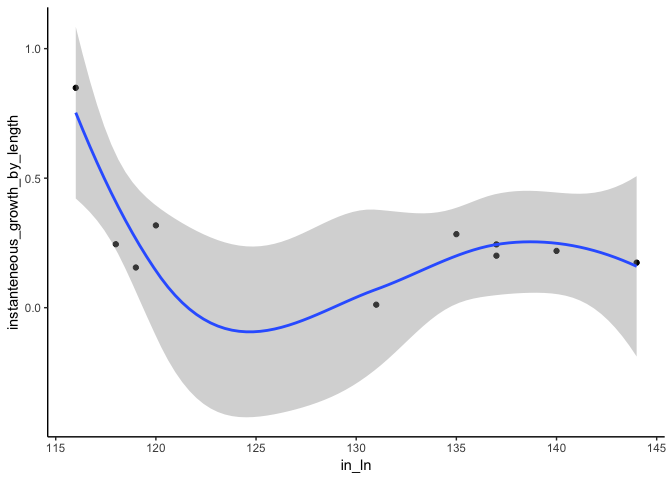
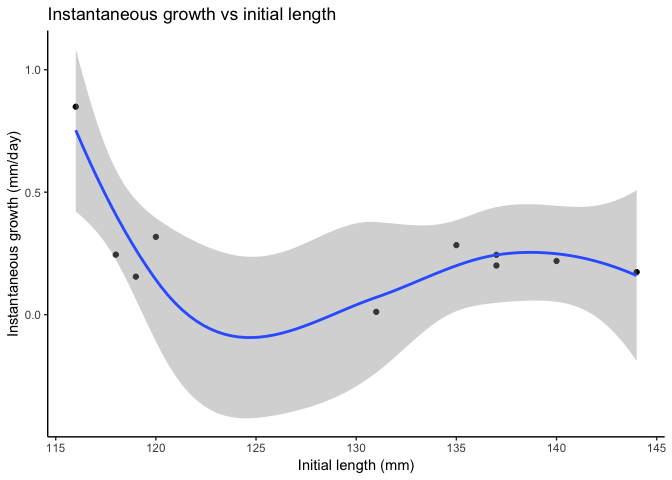
have to render in html for stringr functions to work

diff --git a/HW_06_KZ.html b/HW_06_KZ.html
@@ -213,55 +213,55 @@ RANDO_ANIMALS &lt;- c(&quot;orca&quot;, &quot;panther&quot;, &quot;cougar&quot;,
 <p>BACK TO WORK. Say we are interested in seeing which characters have letters <strong>ae</strong> in them. Let’s use the <strong>str_view</strong> function.</p>
 <pre class="r"><code>#looking for characters with letter *a*
 str_view(RANDO_ANIMALS, &quot;a&quot;)</code></pre>
-<div id="htmlwidget-c9ea9ca7982bcde2ba26" style="width:960px;height:100%;" class="str_view html-widget"></div>
-<script type="application/json" data-for="htmlwidget-c9ea9ca7982bcde2ba26">{"x":{"html":"<ul>\n  <li>orc<span class='match'>a<\/span><\/li>\n  <li>p<span class='match'>a<\/span>nther<\/li>\n  <li>coug<span class='match'>a<\/span>r<\/li>\n  <li>cuddlefish<\/li>\n  <li><span class='match'>a<\/span>nglerfish<\/li>\n  <li>husky<\/li>\n  <li>steelhe<span class='match'>a<\/span>d<\/li>\n<\/ul>"},"evals":[],"jsHooks":[]}</script>
+<div id="htmlwidget-8fb0a4751ad9a6f78b5c" style="width:960px;height:100%;" class="str_view html-widget"></div>
+<script type="application/json" data-for="htmlwidget-8fb0a4751ad9a6f78b5c">{"x":{"html":"<ul>\n  <li>orc<span class='match'>a<\/span><\/li>\n  <li>p<span class='match'>a<\/span>nther<\/li>\n  <li>coug<span class='match'>a<\/span>r<\/li>\n  <li>cuddlefish<\/li>\n  <li><span class='match'>a<\/span>nglerfish<\/li>\n  <li>husky<\/li>\n  <li>steelhe<span class='match'>a<\/span>d<\/li>\n<\/ul>"},"evals":[],"jsHooks":[]}</script>
 <pre class="r"><code>#looking for characters with *an*
 str_view(RANDO_ANIMALS, &quot;an&quot;)</code></pre>
-<div id="htmlwidget-d6681110bde5a7505109" style="width:960px;height:100%;" class="str_view html-widget"></div>
-<script type="application/json" data-for="htmlwidget-d6681110bde5a7505109">{"x":{"html":"<ul>\n  <li>orca<\/li>\n  <li>p<span class='match'>an<\/span>ther<\/li>\n  <li>cougar<\/li>\n  <li>cuddlefish<\/li>\n  <li><span class='match'>an<\/span>glerfish<\/li>\n  <li>husky<\/li>\n  <li>steelhead<\/li>\n<\/ul>"},"evals":[],"jsHooks":[]}</script>
+<div id="htmlwidget-2ba647689ce7d065afe1" style="width:960px;height:100%;" class="str_view html-widget"></div>
+<script type="application/json" data-for="htmlwidget-2ba647689ce7d065afe1">{"x":{"html":"<ul>\n  <li>orca<\/li>\n  <li>p<span class='match'>an<\/span>ther<\/li>\n  <li>cougar<\/li>\n  <li>cuddlefish<\/li>\n  <li><span class='match'>an<\/span>glerfish<\/li>\n  <li>husky<\/li>\n  <li>steelhead<\/li>\n<\/ul>"},"evals":[],"jsHooks":[]}</script>
 <pre class="r"><code>#looking for characters with *o* and one letter on either side
 str_view(RANDO_ANIMALS, &quot;.o.&quot;)</code></pre>
-<div id="htmlwidget-29c15561490172523133" style="width:960px;height:100%;" class="str_view html-widget"></div>
-<script type="application/json" data-for="htmlwidget-29c15561490172523133">{"x":{"html":"<ul>\n  <li>orca<\/li>\n  <li>panther<\/li>\n  <li><span class='match'>cou<\/span>gar<\/li>\n  <li>cuddlefish<\/li>\n  <li>anglerfish<\/li>\n  <li>husky<\/li>\n  <li>steelhead<\/li>\n<\/ul>"},"evals":[],"jsHooks":[]}</script>
+<div id="htmlwidget-86c2edf467e04c3626bd" style="width:960px;height:100%;" class="str_view html-widget"></div>
+<script type="application/json" data-for="htmlwidget-86c2edf467e04c3626bd">{"x":{"html":"<ul>\n  <li>orca<\/li>\n  <li>panther<\/li>\n  <li><span class='match'>cou<\/span>gar<\/li>\n  <li>cuddlefish<\/li>\n  <li>anglerfish<\/li>\n  <li>husky<\/li>\n  <li>steelhead<\/li>\n<\/ul>"},"evals":[],"jsHooks":[]}</script>
 <pre class="r"><code>#looking for an *a* at the beginning of a string
 str_view(RANDO_ANIMALS, &quot;^a&quot;)</code></pre>
-<div id="htmlwidget-754b5304b3bdf0a2e732" style="width:960px;height:100%;" class="str_view html-widget"></div>
-<script type="application/json" data-for="htmlwidget-754b5304b3bdf0a2e732">{"x":{"html":"<ul>\n  <li>orca<\/li>\n  <li>panther<\/li>\n  <li>cougar<\/li>\n  <li>cuddlefish<\/li>\n  <li><span class='match'>a<\/span>nglerfish<\/li>\n  <li>husky<\/li>\n  <li>steelhead<\/li>\n<\/ul>"},"evals":[],"jsHooks":[]}</script>
+<div id="htmlwidget-6427d2b55d15388d616c" style="width:960px;height:100%;" class="str_view html-widget"></div>
+<script type="application/json" data-for="htmlwidget-6427d2b55d15388d616c">{"x":{"html":"<ul>\n  <li>orca<\/li>\n  <li>panther<\/li>\n  <li>cougar<\/li>\n  <li>cuddlefish<\/li>\n  <li><span class='match'>a<\/span>nglerfish<\/li>\n  <li>husky<\/li>\n  <li>steelhead<\/li>\n<\/ul>"},"evals":[],"jsHooks":[]}</script>
 <pre class="r"><code>#looking for an *a* at the end of a string
 str_view(RANDO_ANIMALS, &quot;a$&quot;)</code></pre>
-<div id="htmlwidget-f0ce57c5d07af04e16a3" style="width:960px;height:100%;" class="str_view html-widget"></div>
-<script type="application/json" data-for="htmlwidget-f0ce57c5d07af04e16a3">{"x":{"html":"<ul>\n  <li>orc<span class='match'>a<\/span><\/li>\n  <li>panther<\/li>\n  <li>cougar<\/li>\n  <li>cuddlefish<\/li>\n  <li>anglerfish<\/li>\n  <li>husky<\/li>\n  <li>steelhead<\/li>\n<\/ul>"},"evals":[],"jsHooks":[]}</script>
+<div id="htmlwidget-68942a52f1843bac92fe" style="width:960px;height:100%;" class="str_view html-widget"></div>
+<script type="application/json" data-for="htmlwidget-68942a52f1843bac92fe">{"x":{"html":"<ul>\n  <li>orc<span class='match'>a<\/span><\/li>\n  <li>panther<\/li>\n  <li>cougar<\/li>\n  <li>cuddlefish<\/li>\n  <li>anglerfish<\/li>\n  <li>husky<\/li>\n  <li>steelhead<\/li>\n<\/ul>"},"evals":[],"jsHooks":[]}</script>
 <pre class="r"><code>#how many words start with a vowel?
 str_view(RANDO_ANIMALS, &quot;^[aeiou]&quot;)</code></pre>
-<div id="htmlwidget-c4999d520974f7b385bb" style="width:960px;height:100%;" class="str_view html-widget"></div>
-<script type="application/json" data-for="htmlwidget-c4999d520974f7b385bb">{"x":{"html":"<ul>\n  <li><span class='match'>o<\/span>rca<\/li>\n  <li>panther<\/li>\n  <li>cougar<\/li>\n  <li>cuddlefish<\/li>\n  <li><span class='match'>a<\/span>nglerfish<\/li>\n  <li>husky<\/li>\n  <li>steelhead<\/li>\n<\/ul>"},"evals":[],"jsHooks":[]}</script>
+<div id="htmlwidget-0183300368c0a569523e" style="width:960px;height:100%;" class="str_view html-widget"></div>
+<script type="application/json" data-for="htmlwidget-0183300368c0a569523e">{"x":{"html":"<ul>\n  <li><span class='match'>o<\/span>rca<\/li>\n  <li>panther<\/li>\n  <li>cougar<\/li>\n  <li>cuddlefish<\/li>\n  <li><span class='match'>a<\/span>nglerfish<\/li>\n  <li>husky<\/li>\n  <li>steelhead<\/li>\n<\/ul>"},"evals":[],"jsHooks":[]}</script>
 <pre class="r"><code>#how many words end with only consonants?
 str_view(RANDO_ANIMALS, &quot;[^aeiou]$&quot;)</code></pre>
-<div id="htmlwidget-e6eabce1baa34cc06ad5" style="width:960px;height:100%;" class="str_view html-widget"></div>
-<script type="application/json" data-for="htmlwidget-e6eabce1baa34cc06ad5">{"x":{"html":"<ul>\n  <li>orca<\/li>\n  <li>panthe<span class='match'>r<\/span><\/li>\n  <li>couga<span class='match'>r<\/span><\/li>\n  <li>cuddlefis<span class='match'>h<\/span><\/li>\n  <li>anglerfis<span class='match'>h<\/span><\/li>\n  <li>husk<span class='match'>y<\/span><\/li>\n  <li>steelhea<span class='match'>d<\/span><\/li>\n<\/ul>"},"evals":[],"jsHooks":[]}</script>
+<div id="htmlwidget-25eb23d56f8f0a136824" style="width:960px;height:100%;" class="str_view html-widget"></div>
+<script type="application/json" data-for="htmlwidget-25eb23d56f8f0a136824">{"x":{"html":"<ul>\n  <li>orca<\/li>\n  <li>panthe<span class='match'>r<\/span><\/li>\n  <li>couga<span class='match'>r<\/span><\/li>\n  <li>cuddlefis<span class='match'>h<\/span><\/li>\n  <li>anglerfis<span class='match'>h<\/span><\/li>\n  <li>husk<span class='match'>y<\/span><\/li>\n  <li>steelhea<span class='match'>d<\/span><\/li>\n<\/ul>"},"evals":[],"jsHooks":[]}</script>
 <pre class="r"><code>#how many words end with *ar* or *er*?
 str_view(RANDO_ANIMALS, &quot;(ar|er)$&quot;)</code></pre>
-<p><div id="htmlwidget-ebd4790a455b2ee2fcd6" style="width:960px;height:100%;" class="str_view html-widget"></div>
-<script type="application/json" data-for="htmlwidget-ebd4790a455b2ee2fcd6">{"x":{"html":"<ul>\n  <li>orca<\/li>\n  <li>panth<span class='match'>er<\/span><\/li>\n  <li>coug<span class='match'>ar<\/span><\/li>\n  <li>cuddlefish<\/li>\n  <li>anglerfish<\/li>\n  <li>husky<\/li>\n  <li>steelhead<\/li>\n<\/ul>"},"evals":[],"jsHooks":[]}</script> What if we want to look for somethig that isn’t a letter?</p>
+<p><div id="htmlwidget-59642390ebbdf6bf556a" style="width:960px;height:100%;" class="str_view html-widget"></div>
+<script type="application/json" data-for="htmlwidget-59642390ebbdf6bf556a">{"x":{"html":"<ul>\n  <li>orca<\/li>\n  <li>panth<span class='match'>er<\/span><\/li>\n  <li>coug<span class='match'>ar<\/span><\/li>\n  <li>cuddlefish<\/li>\n  <li>anglerfish<\/li>\n  <li>husky<\/li>\n  <li>steelhead<\/li>\n<\/ul>"},"evals":[],"jsHooks":[]}</script> What if we want to look for somethig that isn’t a letter?</p>
 <pre class="r"><code>#creating my string
 Alternative_String &lt;- c(&quot;xyz&quot;, &quot;x.y&quot;, &quot;x%y&quot;, &quot;y z&quot;, &quot;z[#]x&quot;)
 
 #viewing the character with any letter, a period, then a y
 str_view(Alternative_String, &quot;.[.]y&quot;)</code></pre>
-<div id="htmlwidget-65d62280e904170e724d" style="width:960px;height:100%;" class="str_view html-widget"></div>
-<script type="application/json" data-for="htmlwidget-65d62280e904170e724d">{"x":{"html":"<ul>\n  <li>xyz<\/li>\n  <li><span class='match'>x.y<\/span><\/li>\n  <li>x%y<\/li>\n  <li>y z<\/li>\n  <li>z[#]x<\/li>\n<\/ul>"},"evals":[],"jsHooks":[]}</script>
+<div id="htmlwidget-b0c1f08769a1f5d87db8" style="width:960px;height:100%;" class="str_view html-widget"></div>
+<script type="application/json" data-for="htmlwidget-b0c1f08769a1f5d87db8">{"x":{"html":"<ul>\n  <li>xyz<\/li>\n  <li><span class='match'>x.y<\/span><\/li>\n  <li>x%y<\/li>\n  <li>y z<\/li>\n  <li>z[#]x<\/li>\n<\/ul>"},"evals":[],"jsHooks":[]}</script>
 <pre class="r"><code>#viewing the character with an x, %, then any letter 
 str_view(Alternative_String, &quot;x[%].&quot;)</code></pre>
-<div id="htmlwidget-90c53bd91c5f37ba4a57" style="width:960px;height:100%;" class="str_view html-widget"></div>
-<script type="application/json" data-for="htmlwidget-90c53bd91c5f37ba4a57">{"x":{"html":"<ul>\n  <li>xyz<\/li>\n  <li>x.y<\/li>\n  <li><span class='match'>x%y<\/span><\/li>\n  <li>y z<\/li>\n  <li>z[#]x<\/li>\n<\/ul>"},"evals":[],"jsHooks":[]}</script>
+<div id="htmlwidget-dfa4616eadf7f584041a" style="width:960px;height:100%;" class="str_view html-widget"></div>
+<script type="application/json" data-for="htmlwidget-dfa4616eadf7f584041a">{"x":{"html":"<ul>\n  <li>xyz<\/li>\n  <li>x.y<\/li>\n  <li><span class='match'>x%y<\/span><\/li>\n  <li>y z<\/li>\n  <li>z[#]x<\/li>\n<\/ul>"},"evals":[],"jsHooks":[]}</script>
 <pre class="r"><code>#viewing the character with any letter, #, and any letter
 str_view(Alternative_String, &quot;.[#].&quot;)</code></pre>
-<div id="htmlwidget-19ca484e34f9135b8d7d" style="width:960px;height:100%;" class="str_view html-widget"></div>
-<script type="application/json" data-for="htmlwidget-19ca484e34f9135b8d7d">{"x":{"html":"<ul>\n  <li>xyz<\/li>\n  <li>x.y<\/li>\n  <li>x%y<\/li>\n  <li>y z<\/li>\n  <li>z<span class='match'>[#]<\/span>x<\/li>\n<\/ul>"},"evals":[],"jsHooks":[]}</script>
+<div id="htmlwidget-cf3a43eec24c768f6bda" style="width:960px;height:100%;" class="str_view html-widget"></div>
+<script type="application/json" data-for="htmlwidget-cf3a43eec24c768f6bda">{"x":{"html":"<ul>\n  <li>xyz<\/li>\n  <li>x.y<\/li>\n  <li>x%y<\/li>\n  <li>y z<\/li>\n  <li>z<span class='match'>[#]<\/span>x<\/li>\n<\/ul>"},"evals":[],"jsHooks":[]}</script>
 <pre class="r"><code>#viewing the character with a space between any two letters
 str_view(Alternative_String, &quot;.[ ].&quot;)</code></pre>
-<div id="htmlwidget-2afdfda0124315918d85" style="width:960px;height:100%;" class="str_view html-widget"></div>
-<script type="application/json" data-for="htmlwidget-2afdfda0124315918d85">{"x":{"html":"<ul>\n  <li>xyz<\/li>\n  <li>x.y<\/li>\n  <li>x%y<\/li>\n  <li><span class='match'>y z<\/span><\/li>\n  <li>z[#]x<\/li>\n<\/ul>"},"evals":[],"jsHooks":[]}</script>
+<div id="htmlwidget-7599c0443c717b2e48aa" style="width:960px;height:100%;" class="str_view html-widget"></div>
+<script type="application/json" data-for="htmlwidget-7599c0443c717b2e48aa">{"x":{"html":"<ul>\n  <li>xyz<\/li>\n  <li>x.y<\/li>\n  <li>x%y<\/li>\n  <li><span class='match'>y z<\/span><\/li>\n  <li>z[#]x<\/li>\n<\/ul>"},"evals":[],"jsHooks":[]}</script>
 <p>Now, we we will apply some of the skills we have learnt in more of an applicable way to real life. We will be using <strong>str_detect()</strong> to see if a character vector matches a pattern.</p>
 <pre class="r"><code>#How many a&#39;s are there in the RANDO_ANIMALS vector?
 sum(str_detect(RANDO_ANIMALS, &quot;a&quot;))</code></pre>
@@ -329,10 +329,13 @@ has_fish</code></pre>
 <pre class="r"><code>#downloading packages I may use for this task
 library(tidyverse)</code></pre>
 <p>First, let’s plot the data to see what we are working with. It is always a good idea to visualize the data before making any manipulations</p>
-<pre class="r"><code>ggplot(trees, aes(Girth, Volume)) + geom_point() + geom_smooth(method=loess) + theme_classic() +
-   ggtitle(&quot;Tree Volume vs Girth&quot;) +
-    xlab(&quot;Girth (diameter in inches)&quot;) +
-    ylab(&quot;Volume (cubic feet)&quot;)</code></pre>
+<pre class="r"><code>ggplot(trees, aes(Girth, Volume)) + 
+  geom_point() +
+    geom_smooth(method=loess) +
+      theme_classic() +
+        ggtitle(&quot;Tree Volume vs Girth&quot;) +
+          xlab(&quot;Girth (diameter in inches)&quot;) +
+            ylab(&quot;Volume (cubic feet)&quot;)</code></pre>
 <p><img src="HW_06_KZ_files/figure-html/unnamed-chunk-19-1.png" /><!-- --></p>
 <p>Now I am going to create the linear function that predicts volume from girth.</p>
 <pre class="r"><code>#fitting my function (single factor ANOVA)
@@ -400,27 +403,35 @@ Fish_data$days &lt;- as.numeric(Fish_data$days)</code></pre>
 <p>I am going to attempt to have multiple inputs and outputs… let’s see if I can pull this off.</p>
 <pre class="r"><code>#creating my function
 instantaneous_growth &lt;- function(f, i, d) {
+  #calculating that I want my function to accomplish
  growth &lt;- ((log(f) - log(i)) / d)*100
-return(list(instanteneous_growth_by_length = growth))
+return(list(growth = growth))
 }
 
 #testing my function
 instantaneous_growth(Fish_data$fn_ln, Fish_data$in_ln, Fish_data$days)</code></pre>
-<pre><code>## $instanteneous_growth_by_length
+<pre><code>## $growth
 ##  [1] 0.20065054 0.28385936 0.31770060 0.24500821 0.21915352 0.84881932
 ##  [7] 0.01154403 0.24425464 0.17379181 0.15512079</code></pre>
 <pre class="r"><code>#putting the rates into a vector
-Mydata_growth_rates &lt;- instantaneous_growth(Fish_data$fn_ln, Fish_data$in_ln, Fish_data$days)
+growth &lt;- instantaneous_growth(Fish_data$fn_ln, Fish_data$in_ln, Fish_data$days)
 
 #adding the vector to a new data frame
-Fish_data_with_rates &lt;- data.frame(fn_ln = fn_ln, in_ln = in_ln, days = days, Mydata_growth_rates = Mydata_growth_rates, stringsAsFactors = FALSE)
+Fish_data_with_rates &lt;- data.frame(fn_ln = fn_ln, in_ln = in_ln, days = days, growth = growth, stringsAsFactors = FALSE)
 
 #when plotting I was getting an error, so I am making sure that Mydata_growth_rates is NUMERIC
-Fish_data_with_rates$instanteneous_growth_by_length &lt;- as.numeric(Fish_data_with_rates$instanteneous_growth_by_length)
+growth &lt;- as.numeric(Fish_data_with_rates$instanteneous_growth_by_length)
 
 #plotting my new found data against intiial weight 
-ggplot(Fish_data_with_rates, aes(in_ln, instanteneous_growth_by_length)) + geom_point() + geom_smooth(method=loess) + theme_classic()</code></pre>
-<p><img src="HW_06_KZ_files/figure-html/unnamed-chunk-23-1.png" /><!-- --> WOW IT ACTUALLY WORKED. That took me a lot longer than i’d like to admit. Working with 3 inputs was more difficult than I expected. I couldn’t get this code to work for a long time as I didn’t realize there needed to be a return function.</p>
+ggplot(Fish_data_with_rates, aes(in_ln, growth)) +
+  geom_point() +
+    geom_smooth(method=loess) +
+      theme_classic() +
+        ggtitle(&quot;Instantaneous growth vs initial length&quot;) +
+          xlab(&quot;Initial length (mm)&quot;) +
+            ylab(&quot;Instantaneous growth (mm/day)&quot;)</code></pre>
+<p><img src="HW_06_KZ_files/figure-html/unnamed-chunk-23-1.png" /><!-- --></p>
+<p>WOW IT ACTUALLY WORKED. That took me a lot longer than i’d like to admit. Working with 3 inputs was more difficult than I expected. I couldn’t get this code to work for a long time as I didn’t realize there needed to be a return function.</p>
 <p>It feels pretty awesome to have created a function that can be used with my data that I have collected for my thesis. It took a long time to construct this function but I am glad I did it as I will actually be able to use it in the future :)</p>
 <p>With this function I can now quickly zip in my data to get instantaneous growth for my fish. YAHOO.</p>
 <p>It was also cool to test adding the data I calculated into a data frame with the other data that I initially had.</p>

diff --git a/HW_06_KZ.md b/HW_06_KZ.md
@@ -181,64 +181,64 @@ BACK TO WORK. Say we are interested in seeing which characters have letters **ae
 str_view(RANDO_ANIMALS, "a")
 ```
 
-<!--html_preserve--><div id="htmlwidget-c9ea9ca7982bcde2ba26" style="width:960px;height:100%;" class="str_view html-widget"></div>
-<script type="application/json" data-for="htmlwidget-c9ea9ca7982bcde2ba26">{"x":{"html":"<ul>\n  <li>orc<span class='match'>a<\/span><\/li>\n  <li>p<span class='match'>a<\/span>nther<\/li>\n  <li>coug<span class='match'>a<\/span>r<\/li>\n  <li>cuddlefish<\/li>\n  <li><span class='match'>a<\/span>nglerfish<\/li>\n  <li>husky<\/li>\n  <li>steelhe<span class='match'>a<\/span>d<\/li>\n<\/ul>"},"evals":[],"jsHooks":[]}</script><!--/html_preserve-->
+<!--html_preserve--><div id="htmlwidget-8fb0a4751ad9a6f78b5c" style="width:960px;height:100%;" class="str_view html-widget"></div>
+<script type="application/json" data-for="htmlwidget-8fb0a4751ad9a6f78b5c">{"x":{"html":"<ul>\n  <li>orc<span class='match'>a<\/span><\/li>\n  <li>p<span class='match'>a<\/span>nther<\/li>\n  <li>coug<span class='match'>a<\/span>r<\/li>\n  <li>cuddlefish<\/li>\n  <li><span class='match'>a<\/span>nglerfish<\/li>\n  <li>husky<\/li>\n  <li>steelhe<span class='match'>a<\/span>d<\/li>\n<\/ul>"},"evals":[],"jsHooks":[]}</script><!--/html_preserve-->
 
 ```r
 #looking for characters with *an*
 str_view(RANDO_ANIMALS, "an")
 ```
 
-<!--html_preserve--><div id="htmlwidget-d6681110bde5a7505109" style="width:960px;height:100%;" class="str_view html-widget"></div>
-<script type="application/json" data-for="htmlwidget-d6681110bde5a7505109">{"x":{"html":"<ul>\n  <li>orca<\/li>\n  <li>p<span class='match'>an<\/span>ther<\/li>\n  <li>cougar<\/li>\n  <li>cuddlefish<\/li>\n  <li><span class='match'>an<\/span>glerfish<\/li>\n  <li>husky<\/li>\n  <li>steelhead<\/li>\n<\/ul>"},"evals":[],"jsHooks":[]}</script><!--/html_preserve-->
+<!--html_preserve--><div id="htmlwidget-2ba647689ce7d065afe1" style="width:960px;height:100%;" class="str_view html-widget"></div>
+<script type="application/json" data-for="htmlwidget-2ba647689ce7d065afe1">{"x":{"html":"<ul>\n  <li>orca<\/li>\n  <li>p<span class='match'>an<\/span>ther<\/li>\n  <li>cougar<\/li>\n  <li>cuddlefish<\/li>\n  <li><span class='match'>an<\/span>glerfish<\/li>\n  <li>husky<\/li>\n  <li>steelhead<\/li>\n<\/ul>"},"evals":[],"jsHooks":[]}</script><!--/html_preserve-->
 
 ```r
 #looking for characters with *o* and one letter on either side
 str_view(RANDO_ANIMALS, ".o.")
 ```
 
-<!--html_preserve--><div id="htmlwidget-29c15561490172523133" style="width:960px;height:100%;" class="str_view html-widget"></div>
-<script type="application/json" data-for="htmlwidget-29c15561490172523133">{"x":{"html":"<ul>\n  <li>orca<\/li>\n  <li>panther<\/li>\n  <li><span class='match'>cou<\/span>gar<\/li>\n  <li>cuddlefish<\/li>\n  <li>anglerfish<\/li>\n  <li>husky<\/li>\n  <li>steelhead<\/li>\n<\/ul>"},"evals":[],"jsHooks":[]}</script><!--/html_preserve-->
+<!--html_preserve--><div id="htmlwidget-86c2edf467e04c3626bd" style="width:960px;height:100%;" class="str_view html-widget"></div>
+<script type="application/json" data-for="htmlwidget-86c2edf467e04c3626bd">{"x":{"html":"<ul>\n  <li>orca<\/li>\n  <li>panther<\/li>\n  <li><span class='match'>cou<\/span>gar<\/li>\n  <li>cuddlefish<\/li>\n  <li>anglerfish<\/li>\n  <li>husky<\/li>\n  <li>steelhead<\/li>\n<\/ul>"},"evals":[],"jsHooks":[]}</script><!--/html_preserve-->
 
 ```r
 #looking for an *a* at the beginning of a string
 str_view(RANDO_ANIMALS, "^a")
 ```
 
-<!--html_preserve--><div id="htmlwidget-754b5304b3bdf0a2e732" style="width:960px;height:100%;" class="str_view html-widget"></div>
-<script type="application/json" data-for="htmlwidget-754b5304b3bdf0a2e732">{"x":{"html":"<ul>\n  <li>orca<\/li>\n  <li>panther<\/li>\n  <li>cougar<\/li>\n  <li>cuddlefish<\/li>\n  <li><span class='match'>a<\/span>nglerfish<\/li>\n  <li>husky<\/li>\n  <li>steelhead<\/li>\n<\/ul>"},"evals":[],"jsHooks":[]}</script><!--/html_preserve-->
+<!--html_preserve--><div id="htmlwidget-6427d2b55d15388d616c" style="width:960px;height:100%;" class="str_view html-widget"></div>
+<script type="application/json" data-for="htmlwidget-6427d2b55d15388d616c">{"x":{"html":"<ul>\n  <li>orca<\/li>\n  <li>panther<\/li>\n  <li>cougar<\/li>\n  <li>cuddlefish<\/li>\n  <li><span class='match'>a<\/span>nglerfish<\/li>\n  <li>husky<\/li>\n  <li>steelhead<\/li>\n<\/ul>"},"evals":[],"jsHooks":[]}</script><!--/html_preserve-->
 
 ```r
 #looking for an *a* at the end of a string
 str_view(RANDO_ANIMALS, "a$")
 ```
 
-<!--html_preserve--><div id="htmlwidget-f0ce57c5d07af04e16a3" style="width:960px;height:100%;" class="str_view html-widget"></div>
-<script type="application/json" data-for="htmlwidget-f0ce57c5d07af04e16a3">{"x":{"html":"<ul>\n  <li>orc<span class='match'>a<\/span><\/li>\n  <li>panther<\/li>\n  <li>cougar<\/li>\n  <li>cuddlefish<\/li>\n  <li>anglerfish<\/li>\n  <li>husky<\/li>\n  <li>steelhead<\/li>\n<\/ul>"},"evals":[],"jsHooks":[]}</script><!--/html_preserve-->
+<!--html_preserve--><div id="htmlwidget-68942a52f1843bac92fe" style="width:960px;height:100%;" class="str_view html-widget"></div>
+<script type="application/json" data-for="htmlwidget-68942a52f1843bac92fe">{"x":{"html":"<ul>\n  <li>orc<span class='match'>a<\/span><\/li>\n  <li>panther<\/li>\n  <li>cougar<\/li>\n  <li>cuddlefish<\/li>\n  <li>anglerfish<\/li>\n  <li>husky<\/li>\n  <li>steelhead<\/li>\n<\/ul>"},"evals":[],"jsHooks":[]}</script><!--/html_preserve-->
 
 ```r
 #how many words start with a vowel?
 str_view(RANDO_ANIMALS, "^[aeiou]")
 ```
 
-<!--html_preserve--><div id="htmlwidget-c4999d520974f7b385bb" style="width:960px;height:100%;" class="str_view html-widget"></div>
-<script type="application/json" data-for="htmlwidget-c4999d520974f7b385bb">{"x":{"html":"<ul>\n  <li><span class='match'>o<\/span>rca<\/li>\n  <li>panther<\/li>\n  <li>cougar<\/li>\n  <li>cuddlefish<\/li>\n  <li><span class='match'>a<\/span>nglerfish<\/li>\n  <li>husky<\/li>\n  <li>steelhead<\/li>\n<\/ul>"},"evals":[],"jsHooks":[]}</script><!--/html_preserve-->
+<!--html_preserve--><div id="htmlwidget-0183300368c0a569523e" style="width:960px;height:100%;" class="str_view html-widget"></div>
+<script type="application/json" data-for="htmlwidget-0183300368c0a569523e">{"x":{"html":"<ul>\n  <li><span class='match'>o<\/span>rca<\/li>\n  <li>panther<\/li>\n  <li>cougar<\/li>\n  <li>cuddlefish<\/li>\n  <li><span class='match'>a<\/span>nglerfish<\/li>\n  <li>husky<\/li>\n  <li>steelhead<\/li>\n<\/ul>"},"evals":[],"jsHooks":[]}</script><!--/html_preserve-->
 
 ```r
 #how many words end with only consonants?
 str_view(RANDO_ANIMALS, "[^aeiou]$")
 ```
 
-<!--html_preserve--><div id="htmlwidget-e6eabce1baa34cc06ad5" style="width:960px;height:100%;" class="str_view html-widget"></div>
-<script type="application/json" data-for="htmlwidget-e6eabce1baa34cc06ad5">{"x":{"html":"<ul>\n  <li>orca<\/li>\n  <li>panthe<span class='match'>r<\/span><\/li>\n  <li>couga<span class='match'>r<\/span><\/li>\n  <li>cuddlefis<span class='match'>h<\/span><\/li>\n  <li>anglerfis<span class='match'>h<\/span><\/li>\n  <li>husk<span class='match'>y<\/span><\/li>\n  <li>steelhea<span class='match'>d<\/span><\/li>\n<\/ul>"},"evals":[],"jsHooks":[]}</script><!--/html_preserve-->
+<!--html_preserve--><div id="htmlwidget-25eb23d56f8f0a136824" style="width:960px;height:100%;" class="str_view html-widget"></div>
+<script type="application/json" data-for="htmlwidget-25eb23d56f8f0a136824">{"x":{"html":"<ul>\n  <li>orca<\/li>\n  <li>panthe<span class='match'>r<\/span><\/li>\n  <li>couga<span class='match'>r<\/span><\/li>\n  <li>cuddlefis<span class='match'>h<\/span><\/li>\n  <li>anglerfis<span class='match'>h<\/span><\/li>\n  <li>husk<span class='match'>y<\/span><\/li>\n  <li>steelhea<span class='match'>d<\/span><\/li>\n<\/ul>"},"evals":[],"jsHooks":[]}</script><!--/html_preserve-->
 
 ```r
 #how many words end with *ar* or *er*?
 str_view(RANDO_ANIMALS, "(ar|er)$")
 ```
 
-<!--html_preserve--><div id="htmlwidget-ebd4790a455b2ee2fcd6" style="width:960px;height:100%;" class="str_view html-widget"></div>
-<script type="application/json" data-for="htmlwidget-ebd4790a455b2ee2fcd6">{"x":{"html":"<ul>\n  <li>orca<\/li>\n  <li>panth<span class='match'>er<\/span><\/li>\n  <li>coug<span class='match'>ar<\/span><\/li>\n  <li>cuddlefish<\/li>\n  <li>anglerfish<\/li>\n  <li>husky<\/li>\n  <li>steelhead<\/li>\n<\/ul>"},"evals":[],"jsHooks":[]}</script><!--/html_preserve-->
+<!--html_preserve--><div id="htmlwidget-59642390ebbdf6bf556a" style="width:960px;height:100%;" class="str_view html-widget"></div>
+<script type="application/json" data-for="htmlwidget-59642390ebbdf6bf556a">{"x":{"html":"<ul>\n  <li>orca<\/li>\n  <li>panth<span class='match'>er<\/span><\/li>\n  <li>coug<span class='match'>ar<\/span><\/li>\n  <li>cuddlefish<\/li>\n  <li>anglerfish<\/li>\n  <li>husky<\/li>\n  <li>steelhead<\/li>\n<\/ul>"},"evals":[],"jsHooks":[]}</script><!--/html_preserve-->
 What if we want to look for somethig that isn't a letter?
 
 
@@ -250,32 +250,32 @@ Alternative_String <- c("xyz", "x.y", "x%y", "y z", "z[#]x")
 str_view(Alternative_String, ".[.]y")
 ```
 
-<!--html_preserve--><div id="htmlwidget-65d62280e904170e724d" style="width:960px;height:100%;" class="str_view html-widget"></div>
-<script type="application/json" data-for="htmlwidget-65d62280e904170e724d">{"x":{"html":"<ul>\n  <li>xyz<\/li>\n  <li><span class='match'>x.y<\/span><\/li>\n  <li>x%y<\/li>\n  <li>y z<\/li>\n  <li>z[#]x<\/li>\n<\/ul>"},"evals":[],"jsHooks":[]}</script><!--/html_preserve-->
+<!--html_preserve--><div id="htmlwidget-b0c1f08769a1f5d87db8" style="width:960px;height:100%;" class="str_view html-widget"></div>
+<script type="application/json" data-for="htmlwidget-b0c1f08769a1f5d87db8">{"x":{"html":"<ul>\n  <li>xyz<\/li>\n  <li><span class='match'>x.y<\/span><\/li>\n  <li>x%y<\/li>\n  <li>y z<\/li>\n  <li>z[#]x<\/li>\n<\/ul>"},"evals":[],"jsHooks":[]}</script><!--/html_preserve-->
 
 ```r
 #viewing the character with an x, %, then any letter 
 str_view(Alternative_String, "x[%].")
 ```
 
-<!--html_preserve--><div id="htmlwidget-90c53bd91c5f37ba4a57" style="width:960px;height:100%;" class="str_view html-widget"></div>
-<script type="application/json" data-for="htmlwidget-90c53bd91c5f37ba4a57">{"x":{"html":"<ul>\n  <li>xyz<\/li>\n  <li>x.y<\/li>\n  <li><span class='match'>x%y<\/span><\/li>\n  <li>y z<\/li>\n  <li>z[#]x<\/li>\n<\/ul>"},"evals":[],"jsHooks":[]}</script><!--/html_preserve-->
+<!--html_preserve--><div id="htmlwidget-dfa4616eadf7f584041a" style="width:960px;height:100%;" class="str_view html-widget"></div>
+<script type="application/json" data-for="htmlwidget-dfa4616eadf7f584041a">{"x":{"html":"<ul>\n  <li>xyz<\/li>\n  <li>x.y<\/li>\n  <li><span class='match'>x%y<\/span><\/li>\n  <li>y z<\/li>\n  <li>z[#]x<\/li>\n<\/ul>"},"evals":[],"jsHooks":[]}</script><!--/html_preserve-->
 
 ```r
 #viewing the character with any letter, #, and any letter
 str_view(Alternative_String, ".[#].")
 ```
 
-<!--html_preserve--><div id="htmlwidget-19ca484e34f9135b8d7d" style="width:960px;height:100%;" class="str_view html-widget"></div>
-<script type="application/json" data-for="htmlwidget-19ca484e34f9135b8d7d">{"x":{"html":"<ul>\n  <li>xyz<\/li>\n  <li>x.y<\/li>\n  <li>x%y<\/li>\n  <li>y z<\/li>\n  <li>z<span class='match'>[#]<\/span>x<\/li>\n<\/ul>"},"evals":[],"jsHooks":[]}</script><!--/html_preserve-->
+<!--html_preserve--><div id="htmlwidget-cf3a43eec24c768f6bda" style="width:960px;height:100%;" class="str_view html-widget"></div>
+<script type="application/json" data-for="htmlwidget-cf3a43eec24c768f6bda">{"x":{"html":"<ul>\n  <li>xyz<\/li>\n  <li>x.y<\/li>\n  <li>x%y<\/li>\n  <li>y z<\/li>\n  <li>z<span class='match'>[#]<\/span>x<\/li>\n<\/ul>"},"evals":[],"jsHooks":[]}</script><!--/html_preserve-->
 
 ```r
 #viewing the character with a space between any two letters
 str_view(Alternative_String, ".[ ].")
 ```
 
-<!--html_preserve--><div id="htmlwidget-2afdfda0124315918d85" style="width:960px;height:100%;" class="str_view html-widget"></div>
-<script type="application/json" data-for="htmlwidget-2afdfda0124315918d85">{"x":{"html":"<ul>\n  <li>xyz<\/li>\n  <li>x.y<\/li>\n  <li>x%y<\/li>\n  <li><span class='match'>y z<\/span><\/li>\n  <li>z[#]x<\/li>\n<\/ul>"},"evals":[],"jsHooks":[]}</script><!--/html_preserve-->
+<!--html_preserve--><div id="htmlwidget-7599c0443c717b2e48aa" style="width:960px;height:100%;" class="str_view html-widget"></div>
+<script type="application/json" data-for="htmlwidget-7599c0443c717b2e48aa">{"x":{"html":"<ul>\n  <li>xyz<\/li>\n  <li>x.y<\/li>\n  <li>x%y<\/li>\n  <li><span class='match'>y z<\/span><\/li>\n  <li>z[#]x<\/li>\n<\/ul>"},"evals":[],"jsHooks":[]}</script><!--/html_preserve-->
 
 Now, we we will apply some of the skills we have learnt in more of an applicable way to real life. We will be using **str_detect()** to see if a character vector matches a pattern.
 
@@ -423,10 +423,13 @@ First, let's plot the data to see what we are working with. It is always a good 
 
 
 ```r
-ggplot(trees, aes(Girth, Volume)) + geom_point() + geom_smooth(method=loess) + theme_classic() +
-   ggtitle("Tree Volume vs Girth") +
-    xlab("Girth (diameter in inches)") +
-    ylab("Volume (cubic feet)")
+ggplot(trees, aes(Girth, Volume)) + 
+  geom_point() +
+    geom_smooth(method=loess) +
+      theme_classic() +
+        ggtitle("Tree Volume vs Girth") +
+          xlab("Girth (diameter in inches)") +
+            ylab("Volume (cubic feet)")
 ```
 
 ![](HW_06_KZ_files/figure-html/unnamed-chunk-19-1.png)<!-- -->
@@ -529,8 +532,9 @@ I am going to attempt to have multiple inputs and outputs... let's see if I can 
 ```r
 #creating my function
 instantaneous_growth <- function(f, i, d) {
+  #calculating that I want my function to accomplish
  growth <- ((log(f) - log(i)) / d)*100
-return(list(instanteneous_growth_by_length = growth))
+return(list(growth = growth))
 }
 
 #testing my function
@@ -538,26 +542,34 @@ instantaneous_growth(Fish_data$fn_ln, Fish_data$in_ln, Fish_data$days)
 ```
 
 ```
-## $instanteneous_growth_by_length
+## $growth
 ##  [1] 0.20065054 0.28385936 0.31770060 0.24500821 0.21915352 0.84881932
 ##  [7] 0.01154403 0.24425464 0.17379181 0.15512079
 ```
 
 ```r
 #putting the rates into a vector
-Mydata_growth_rates <- instantaneous_growth(Fish_data$fn_ln, Fish_data$in_ln, Fish_data$days)
+growth <- instantaneous_growth(Fish_data$fn_ln, Fish_data$in_ln, Fish_data$days)
 
 #adding the vector to a new data frame
-Fish_data_with_rates <- data.frame(fn_ln = fn_ln, in_ln = in_ln, days = days, Mydata_growth_rates = Mydata_growth_rates, stringsAsFactors = FALSE)
+Fish_data_with_rates <- data.frame(fn_ln = fn_ln, in_ln = in_ln, days = days, growth = growth, stringsAsFactors = FALSE)
 
 #when plotting I was getting an error, so I am making sure that Mydata_growth_rates is NUMERIC
-Fish_data_with_rates$instanteneous_growth_by_length <- as.numeric(Fish_data_with_rates$instanteneous_growth_by_length)
+growth <- as.numeric(Fish_data_with_rates$instanteneous_growth_by_length)
 
 #plotting my new found data against intiial weight 
-ggplot(Fish_data_with_rates, aes(in_ln, instanteneous_growth_by_length)) + geom_point() + geom_smooth(method=loess) + theme_classic()
+ggplot(Fish_data_with_rates, aes(in_ln, growth)) +
+  geom_point() +
+    geom_smooth(method=loess) +
+      theme_classic() +
+        ggtitle("Instantaneous growth vs initial length") +
+          xlab("Initial length (mm)") +
+            ylab("Instantaneous growth (mm/day)")
 ```
 
 ![](HW_06_KZ_files/figure-html/unnamed-chunk-23-1.png)<!-- -->
+
+
 WOW IT ACTUALLY WORKED. That took me a lot longer than i'd like to admit. Working with 3 inputs was more difficult than I expected. I couldn't get this code to work for a long time as I didn't realize there needed to be a return function.
 
 It feels pretty awesome to have created a function that can be used with my data that I have collected for my thesis. It took a long time to construct this function but I am glad I did it as I will actually be able to use it in the future :)
@@ -565,6 +577,5 @@ It feels pretty awesome to have created a function that can be used with my data
 With this function I can now quickly zip in my data to get instantaneous growth for my fish. YAHOO.
 
 It was also cool to test adding the data I calculated into a data frame with the other data that I initially had.
-
 
 
